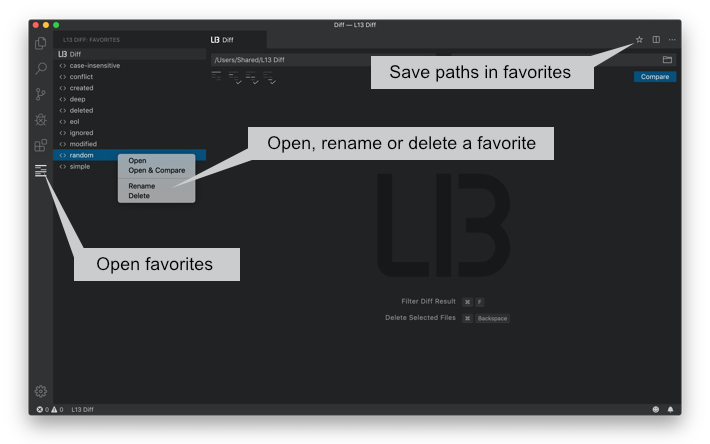
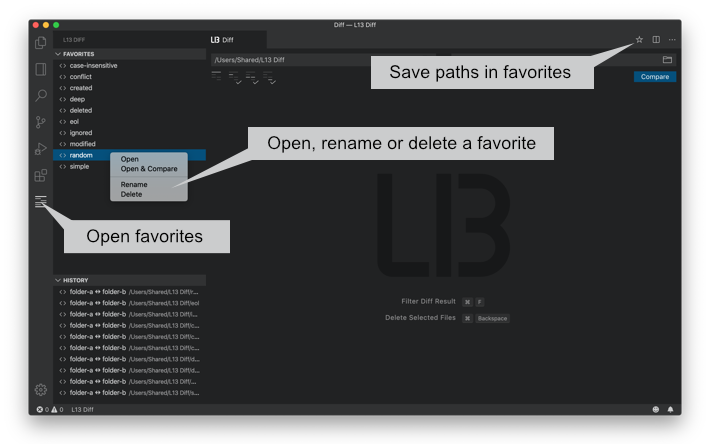
- added new preview screens - fixed preview screens - better dialog delete text

diff --git a/src/services/DiffHistory.ts b/src/services/DiffHistory.ts
@@ -88,7 +88,7 @@ export class DiffHistory implements vscode.TreeDataProvider<HistoryTreeItem> {
 	
 	public static removeComparison (context:vscode.ExtensionContext, comparison:Comparison) {
 		
-		vscode.window.showInformationMessage(`Delete comparison "${comparison.label}"?`, { modal: true }, 'Delete').then((value) => {
+		vscode.window.showInformationMessage(`Delete comparison '${formatDeleteText(comparison)}'?`, { modal: true }, 'Delete').then((value) => {
 			
 			if (value) {
 				
@@ -177,5 +177,11 @@ function formatNameAndDesc (comparison:Comparison) :Comparison {
 	comparison.desc = join.apply(null, desc);
 	
 	return comparison;
+	
+}
+
+function formatDeleteText (comparison:Comparison) :string {
+	
+	return `${comparison.label}${comparison.desc ? ` (${comparison.desc})` : ''}`;
 	
 }

diff --git a/README.md b/README.md
@@ -8,12 +8,13 @@ This extension is part of the [L13 Extension Pack](https://marketplace.visualstu
 
 ## What's new in L13 Diff 0.23.0
 
-- Added list for recently compared folders to view.
+- Added history view for previous comparisons.
+- Added welcome view for favorites.
 
 ## Features
 
 * Supports extension [L13 Projects](https://marketplace.visualstudio.com/items?itemName=L13RARY.l13-projects)
-* Supports a history for recently used files and folders.
+* Supports a history for recently used files, folders and previous comparisons.
 * Auto detects current workspaces.
 * Select folders with the context menu in the VS Code Explorer or the open dialog.
 * Drag'n Drop files and folders from the Finder/Explorer into the input fields.
@@ -29,6 +30,10 @@ This extension is part of the [L13 Extension Pack](https://marketplace.visualstu
 * Get a quick overview with the navigator of the current diff.
 * Delete files and folders in the list view.
 
+### Welcome
+
+![L13 Diff Welcome](images/preview-welcome.png)
+
 ### Basics
 
 ![L13 Diff Basics](images/preview-start.png)
@@ -40,6 +45,10 @@ This extension is part of the [L13 Extension Pack](https://marketplace.visualstu
 ### Favorites
 
 ![L13 Diff Favorites](images/preview-favorites.png)
+
+### History
+
+![L13 Diff History](images/preview-history.png)
 
 ### Search, filter or select
 
@@ -61,7 +70,7 @@ This extension is part of the [L13 Extension Pack](https://marketplace.visualstu
 
 * `L13 Diff` - Open the diff panel.
 * `Open in L13 Diff` - Open the diff panel with selected files or folders in the Visual Studio Code Explorer by dialog or context menu.
-* `L13 Diff: Clear History` - Clear the history of recently used files and folders.
+* `L13 Diff: Clear History` - Clear the history of recently used files, folders and previous comparisons.
 * `L13 Diff: Delete All Favorites` - Delete all favorites.
 
 ## Available Settings

diff --git a/CHANGELOG.md b/CHANGELOG.md
@@ -1,10 +1,11 @@
 # Change Log
 All notable changes to the "L13 Diff" extension will be documented in this file.
 
-## [0.23.0] - 2020-05-03
+## [0.23.0] - 2020-05-10
 
 ### Added
-- Added list for recently compared folders to view.
+- Added history view for previous comparisons.
+- Added welcome view for favorites.
 
 ## [0.22.0] - 2020-04-19
 
